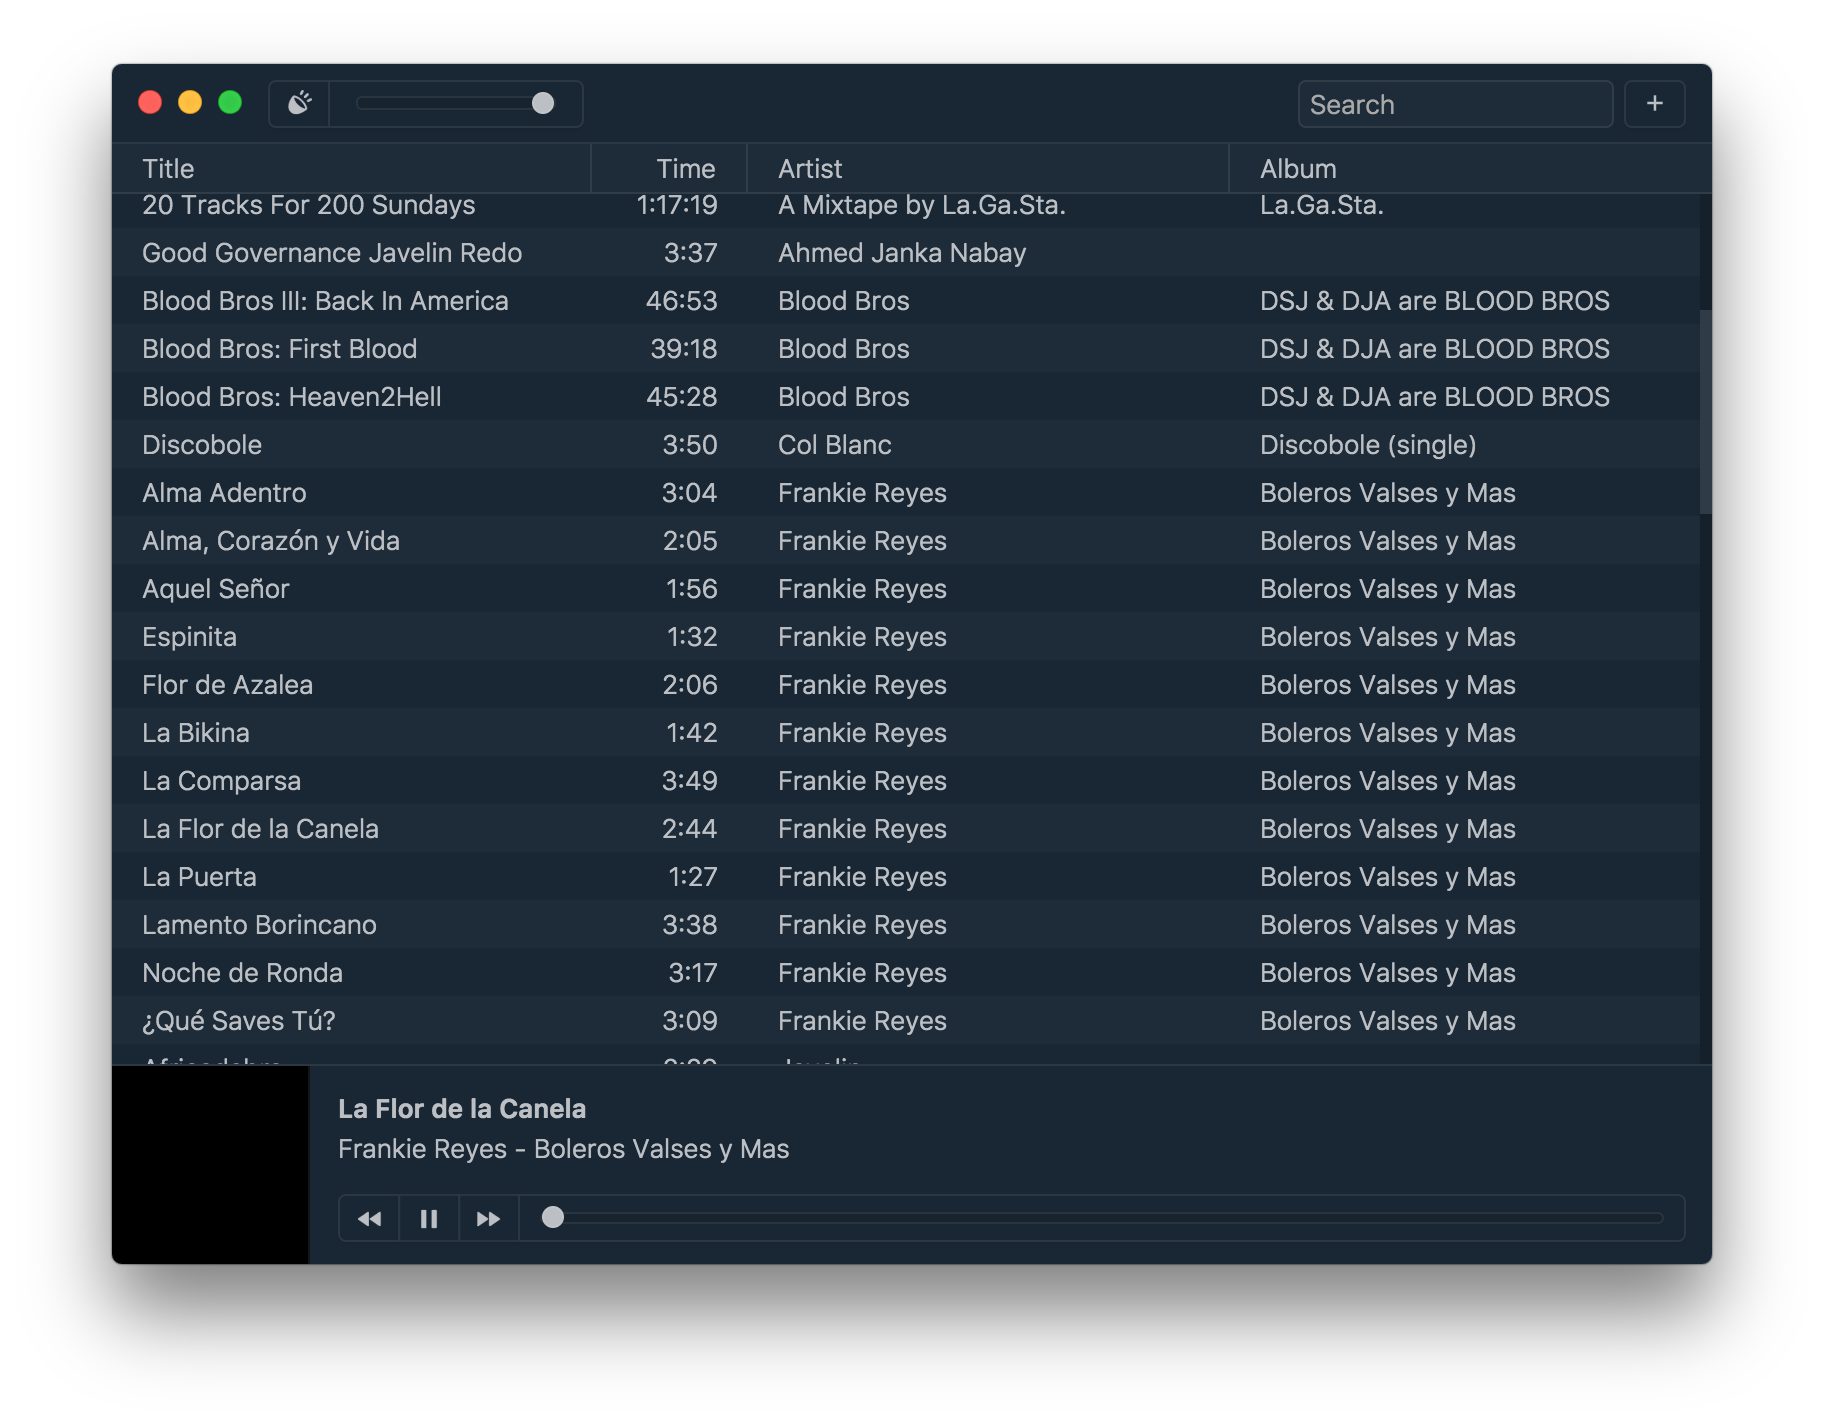
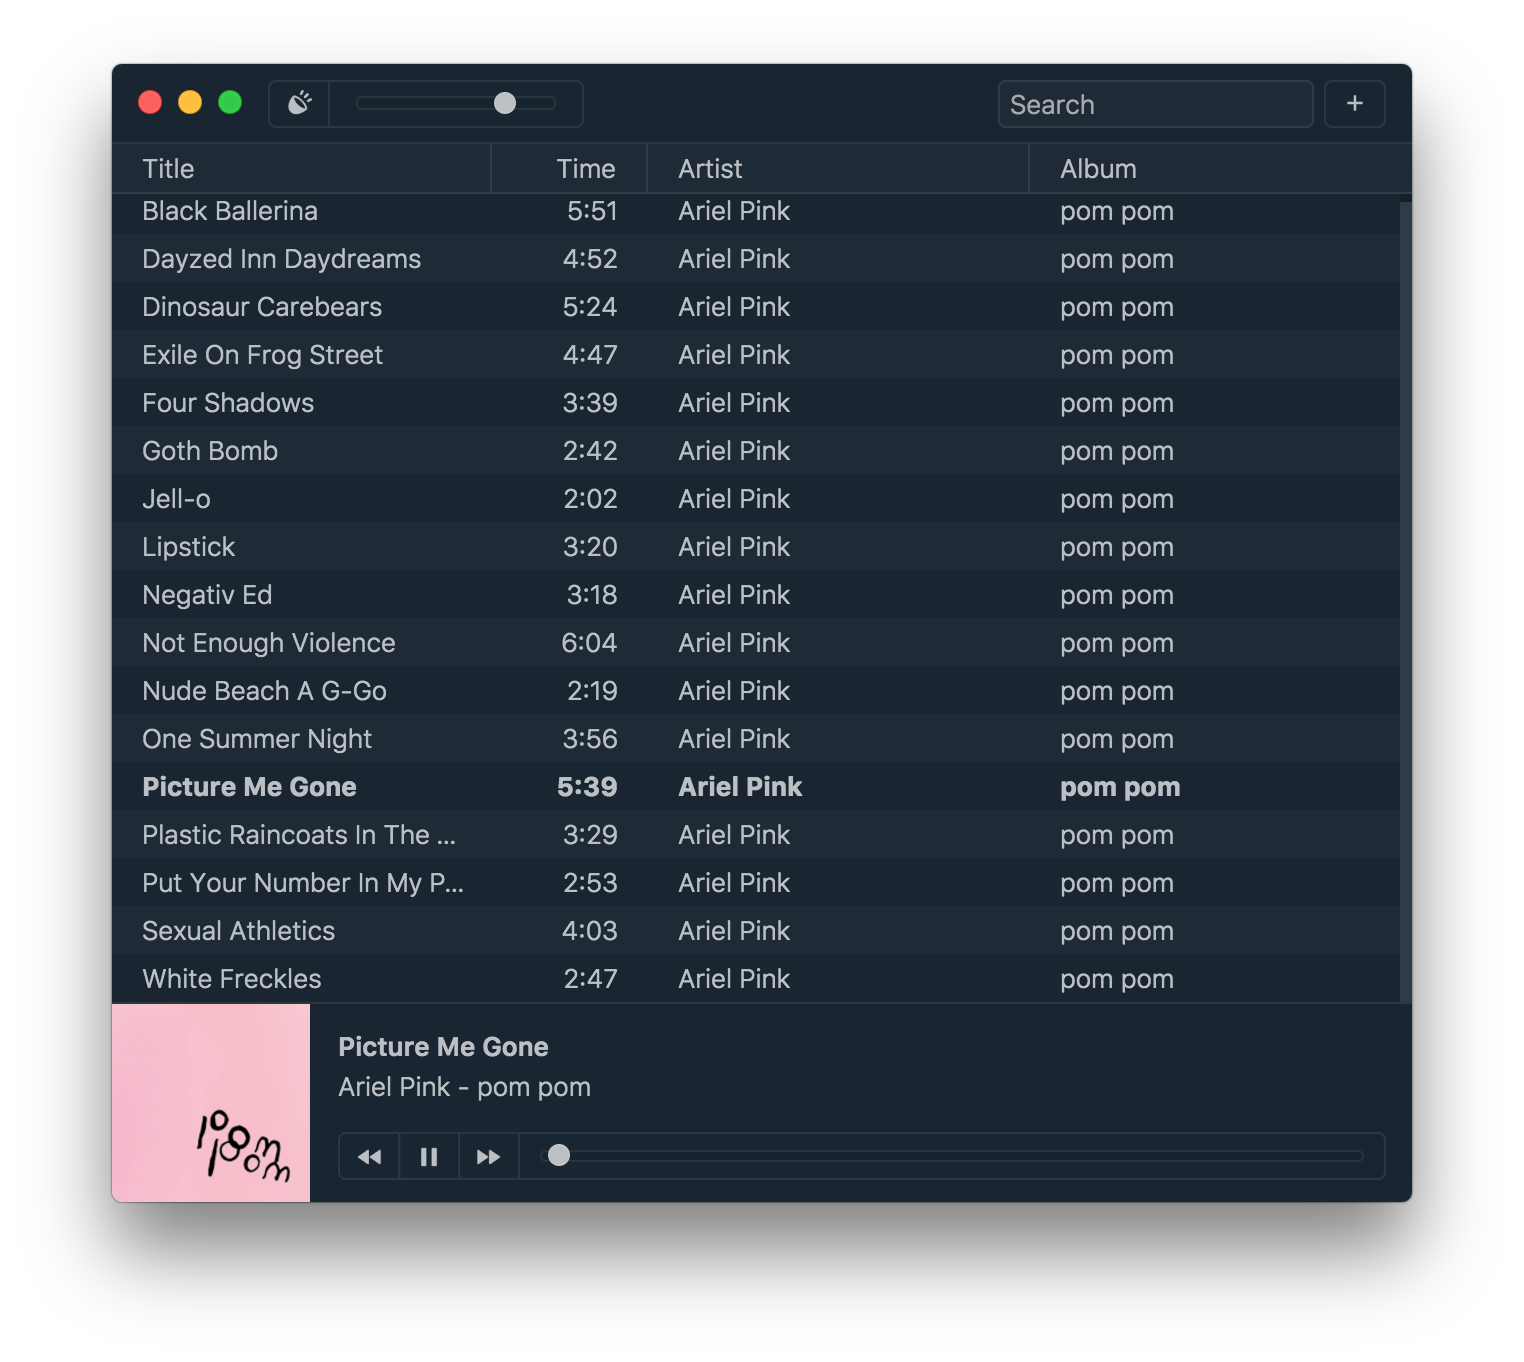
get album artwork mostly working

diff --git a/renderer/models/player.js b/renderer/models/player.js
@@ -1,6 +1,6 @@
 var { ipcRenderer } = require('electron')
 var parallel = require('run-parallel')
-var metadata = require('../lib/metadata')
+var artwork = require('../lib/artwork')
 
 module.exports = {
   namespace: 'player',
@@ -9,20 +9,15 @@ module.exports = {
     current: {},
     volume: 50,
     muted: false,
-    position: 0,
-    currentTime: 0,
-    picture: null
+    currentTime: 0
   },
   reducers: {
-    muted: (state, data) => ({ muted: data }),
+    muted: (state, data) => ({muted: data}),
     playing: (state, data) => ({playing: data}),
-    currentTime: (state, data) => ({ currentTime: data }),
-    volume: (state, data) => ({ volume: data }),
+    currentTime: (state, data) => ({currentTime: data}),
+    volume: (state, data) => ({volume: data}),
     current: (state, data) => ({current: data}),
-    picture: (state, data) => {
-      console.log(data)
-      return {picture: data}
-    }
+    picture: (state, data) => ({picture: data})
   },
   effects: {
     queue: (state, data, send, done) => {
@@ -31,12 +26,10 @@ module.exports = {
       parallel([
         send.bind(null, 'player:current', data),
         (cb) => {
-          metadata(data.filepath, (err, metadata) => {
+          artwork(data.filepath, (err, hash) => {
             if (err) return cb(err)
-            console.log(metadata)
-            window.metadata = metadata
-            var picture = metadata.common.picture ? metadata.common.picture : null
-            send('player:picture', picture, cb)
+            console.log(hash)
+            send('player:picture', hash, cb)
           })
         }
       ], done)

diff --git a/renderer/elements/footer/index.js b/renderer/elements/footer/index.js
@@ -4,6 +4,7 @@ var fd = require('format-duration')
 var styles = require('./styles')
 var button = require('../button')
 var buttonStyles = require('../button/styles')
+var artworkCache = require('../../lib/artwork-cache')
 
 var opts = {
   min: 0,
@@ -22,9 +23,13 @@ module.exports = (state, prev, send) => {
   var artist = current.artist || null
   var album = current.album || null
   var progress = (state.player.currentTime / state.player.current.duration) * opts.max
+  var backgroundImg = artworkCache[state.player.picture]
   return html`
     <footer class="${styles.footer}">
-      <div class="${styles.albumArt}"></div>
+      <div
+        style="background-image: ${state.player.picture ? 'url(' + backgroundImg + ')' : ''}"
+        class="${styles.albumArt}">
+      </div>
       <div class="${styles.meta}">
         <p class="${styles.title}">${title || 'No Track Selected'}</p>
         <p class="${styles.artist}">
@@ -55,8 +60,9 @@ module.exports = (state, prev, send) => {
               value=${progress}>
           `)}
         </div>
-        <div>${fd(state.player.currentTime * 1000)} -${fd((state.player.current.duration - state.player.currentTime) * 1000)}</div>
       </div>
     </footer>
   `
 }
+
+// <div>${fd(state.player.currentTime * 1000)} -${fd((state.player.current.duration - state.player.currentTime) * 1000)}</div>

diff --git a/renderer/lib/artwork.js b/renderer/lib/artwork.js
@@ -1,0 +1,22 @@
+var get = require('lodash.get')
+var nativeImage = require('electron').nativeImage
+var metadata = require('./metadata')
+var artworkCache = require('./artwork-cache')
+var crypto = require('crypto')
+
+function artwork (path, cb) {
+  metadata(path, lookupArtwork)
+
+  function lookupArtwork (err, meta) {
+    if (err) return cb(err)
+    var artBuff = get(meta, 'common.picture[0].data')
+    if (!artBuff) return cb(null, null)
+    var hash = crypto.createHash('sha256').digest('hex')
+    var nativeBuff = nativeImage.createFromBuffer(artBuff)
+    var thumbnail = nativeBuff.getAspectRatio() >= 1 ? nativeBuff.resize({width: 175, quality: 'good'}) : nativeBuff.resize({height: 175, quality: 'good'})
+    artworkCache[hash] = thumbnail.toDataURL()
+    cb(null, hash)
+  }
+}
+
+module.exports = artwork

diff --git a/renderer/models/library.js b/renderer/models/library.js
@@ -11,7 +11,6 @@ module.exports = {
   reducers: {
     files: (state, data) => ({ files: data }),
     metadata: (state, data) => ({ files: state.files.concat(data) }),
-    sort: (state, date) => ({ files: sortList(state.files) }),
     search: (state, data) => ({ search: data }),
     clear: (state, data) => ({ files: [] })
   },
@@ -28,6 +27,9 @@ module.exports = {
           })
         })
       })
+    },
+    sort: (state, data, send, done) => {
+      send('library:files', sortList(state.files), done)
     }
   },
   subscriptions: {

diff --git a/renderer/elements/footer/styles.js b/renderer/elements/footer/styles.js
@@ -19,6 +19,8 @@ module.exports = css`
     position: absolute;
     left: 0;
     bottom: 0;
+    background-size: cover;
+    background-position: center;
   }
 
   .meta {

diff --git a/renderer/lib/artwork-cache.js b/renderer/lib/artwork-cache.js
@@ -1,0 +1,3 @@
+var cache = {}
+
+module.exports = cache

diff --git a/readme.md b/readme.md
@@ -1,4 +1,4 @@
-# HyperAmp [![stability][stability-img]][stability-url] [![build][build-img]][build-url] [![standard][standard-img]][standard-url][![Build status](https://ci.appveyor.com/api/projects/status/ajdq0to9sk4ahexa?svg=true)](https://ci.appveyor.com/project/bcomnes/hyperamp)
+# HyperAmp [![stability][stability-img]][stability-url] [![build][build-img]][build-url] [![appveyor-status][appveyor-img]][appveyor-url]
 
 [stability-img]: https://img.shields.io/badge/stability-experimental-orange.svg?style=flat-square
 [stability-url]: https://nodejs.org/api/documentation.html#documentation_stability_index
@@ -6,12 +6,10 @@
 [build-url]: https://travis-ci.org/hypermodules/hyperamp
 [standard-img]: https://img.shields.io/badge/code%20style-standard-brightgreen.svg?style=flat-square
 [standard-url]: https://github.com/feross/standard
+[appveyor-img]: https://ci.appveyor.com/api/projects/status/ajdq0to9sk4ahexa?svg=true&&style=flat-square
+[appveyor-url]: https://ci.appveyor.com/project/bcomnes/hyperamp
 
-Experimental desktop audio player and library.
-
-**:warning: This is pre-alpha! :warning:**
-
-Only worth checking out or forking if you want to contribute to development!
+Experimental audio player built with web technologies ([choo](https://github.com/yoshuawuyts/choo) + [electron](https://github.com/electron/electron)).
 
 ## Install
 
@@ -22,8 +20,6 @@ npm install
 npm test
 npm start
 ```
-
-We're using [electron](https://github.com/electron/electron) and [choo](https://github.com/yoshuawuyts/choo) under the hood.
 
 ## Screenshot
 
